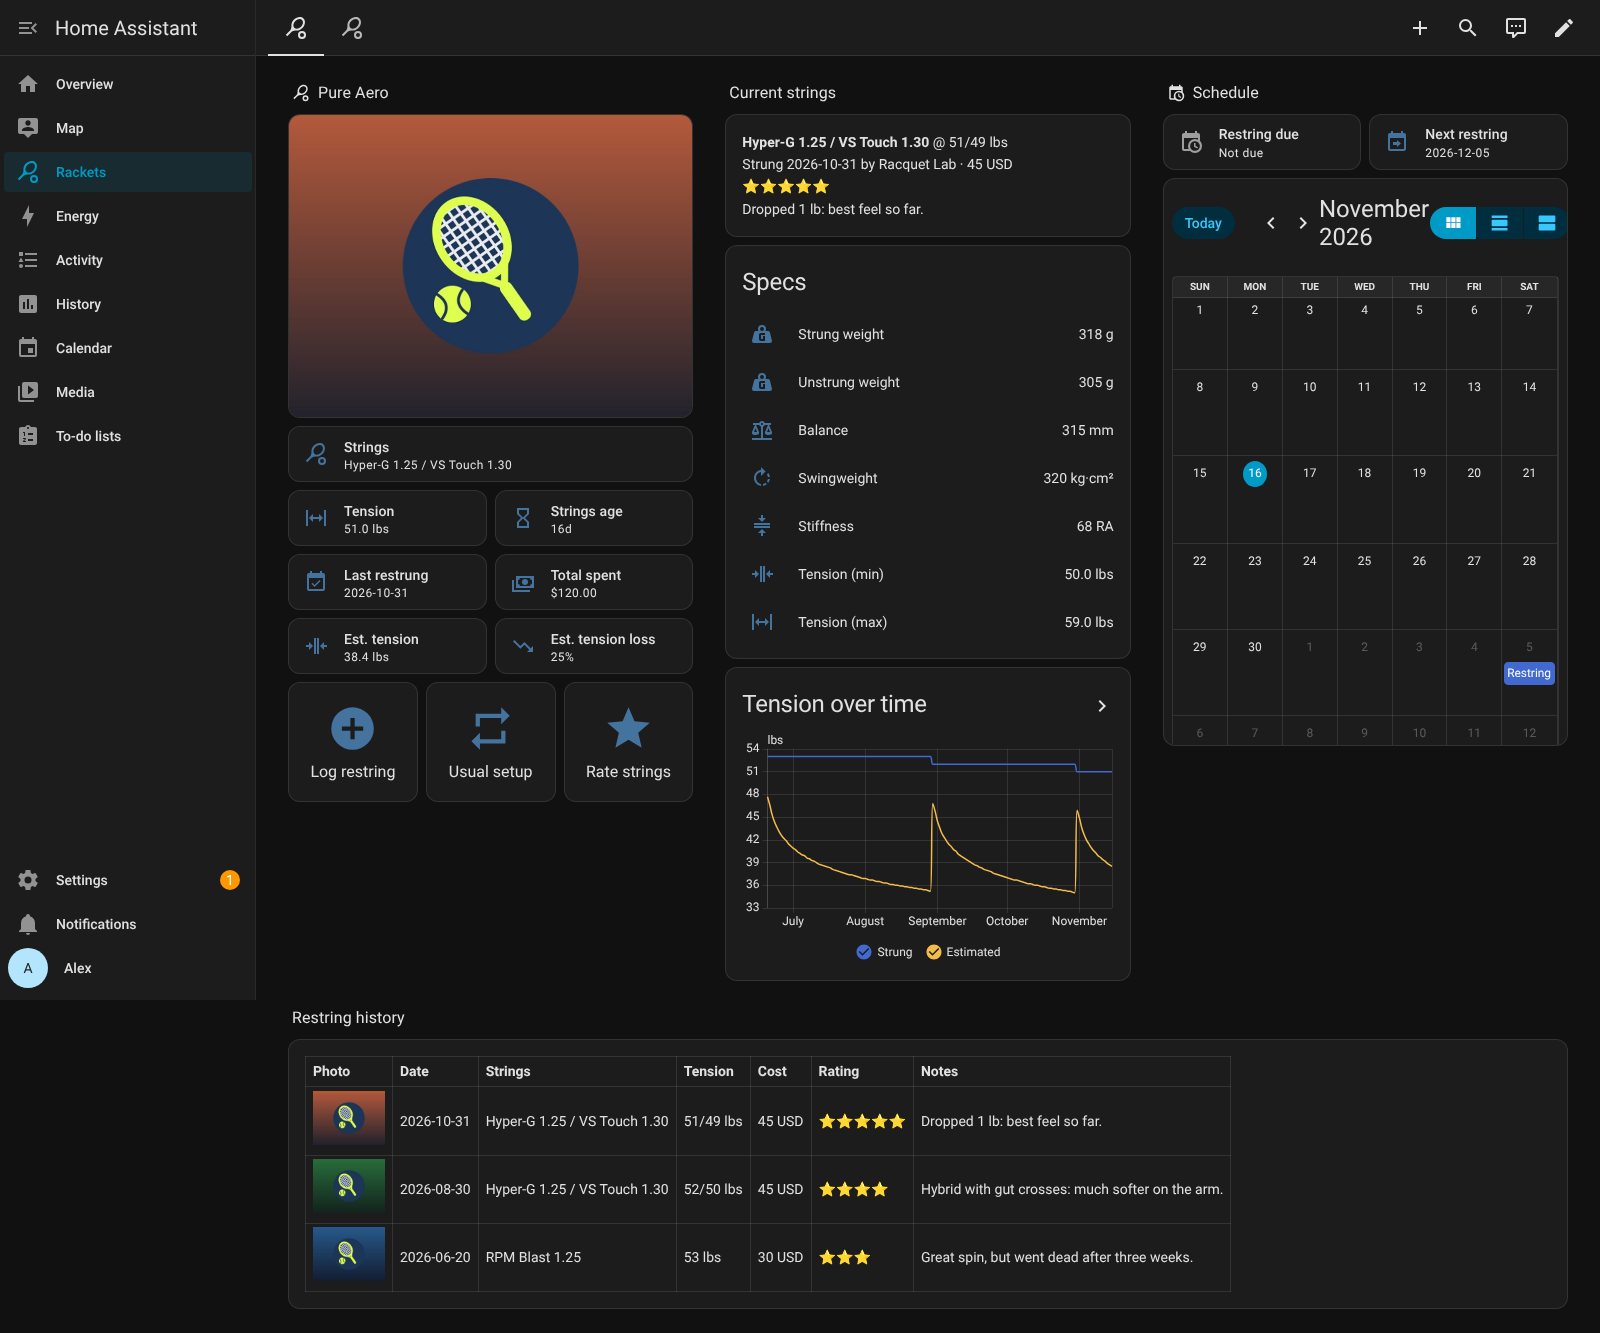
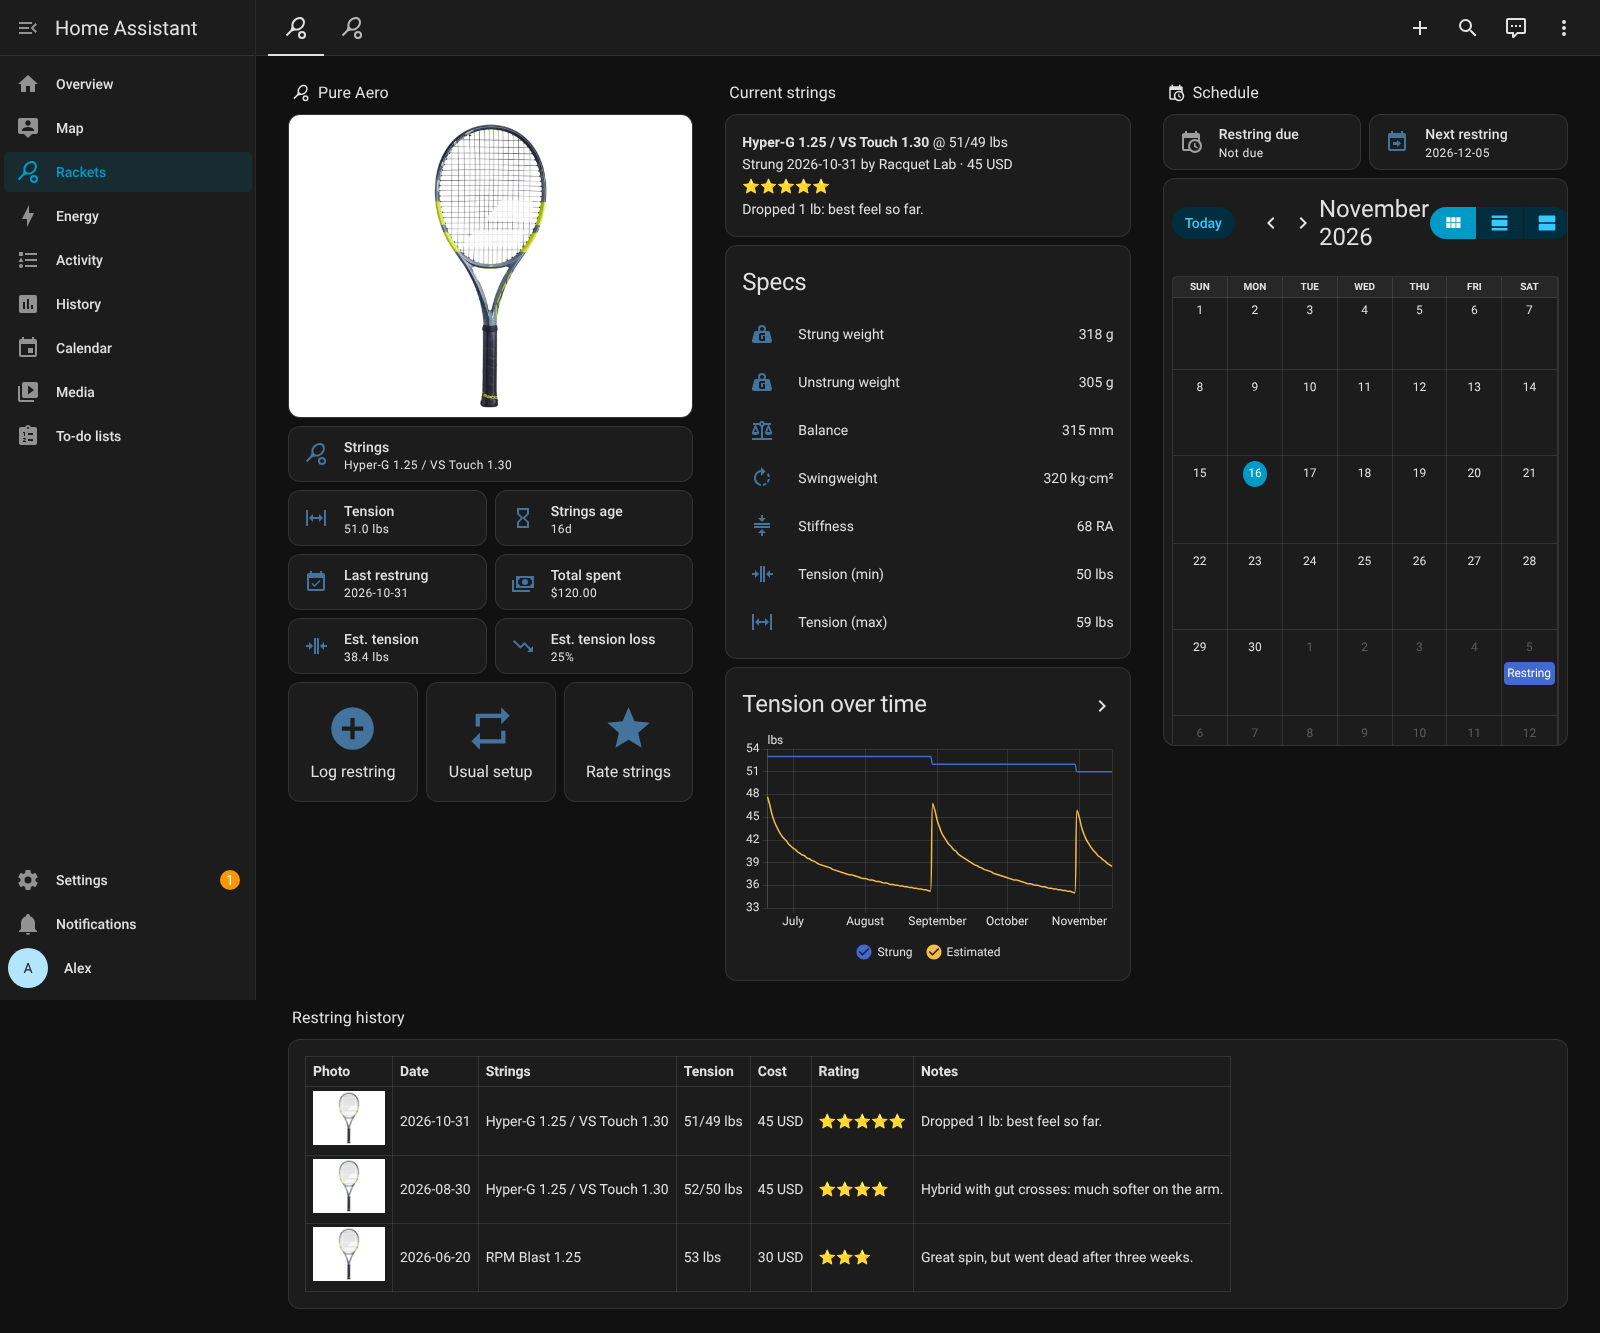
README screenshot with a Pure Aero photo; whole-number specs without .0
- Re-render the single-racket dashboard (light and dark) in HA 2026.9
  with a photo of the Pure Aero on every restring.
- Spec sensors show 320, not 320.0: the number selector stores whole
  numbers as floats.

Claude-Session: https://claude.ai/code/session_01SaaNWfAwPSUw2wDkvyoLBw

Changed region(s): [[0.1562, 0.0615, 0.4375, 0.3383], [0.1875, 0.7997, 0.25, 0.9842]]

diff --git a/custom_components/racket_tracker/sensor.py b/custom_components/racket_tracker/sensor.py
@@ -414,7 +414,11 @@ class RacketSpecSensor(SensorEntity):
             self._attr_suggested_unit_of_measurement = (
                 self._attr_native_unit_of_measurement
             )
-        self._attr_native_value = value["value"]
+        native = value["value"]
+        # The form stores 320 as 320.0; show it as 320, like looked-up values
+        if isinstance(native, float) and native.is_integer():
+            native = int(native)
+        self._attr_native_value = native
         self._attr_extra_state_attributes = {"source": value["source"]}
         if value["source"] == SOURCE_DATASET:
             self._attr_attribution = ATTRIBUTION

diff --git a/tests/test_specs.py b/tests/test_specs.py
@@ -39,6 +39,8 @@ async def test_specs_from_config_flow(hass: HomeAssistant) -> None:
     assert float(weight.state) == 321.5
     assert weight.attributes["unit_of_measurement"] == "g"
     assert weight.attributes["source"] == "measured"
+    # The number selector makes 325 a float; it still shows as 325
+    assert hass.states.get("sensor.blade_swingweight").state == "325"
     assert (
         hass.states.get("sensor.blade_stiffness").attributes["unit_of_measurement"]
         == "RA"
